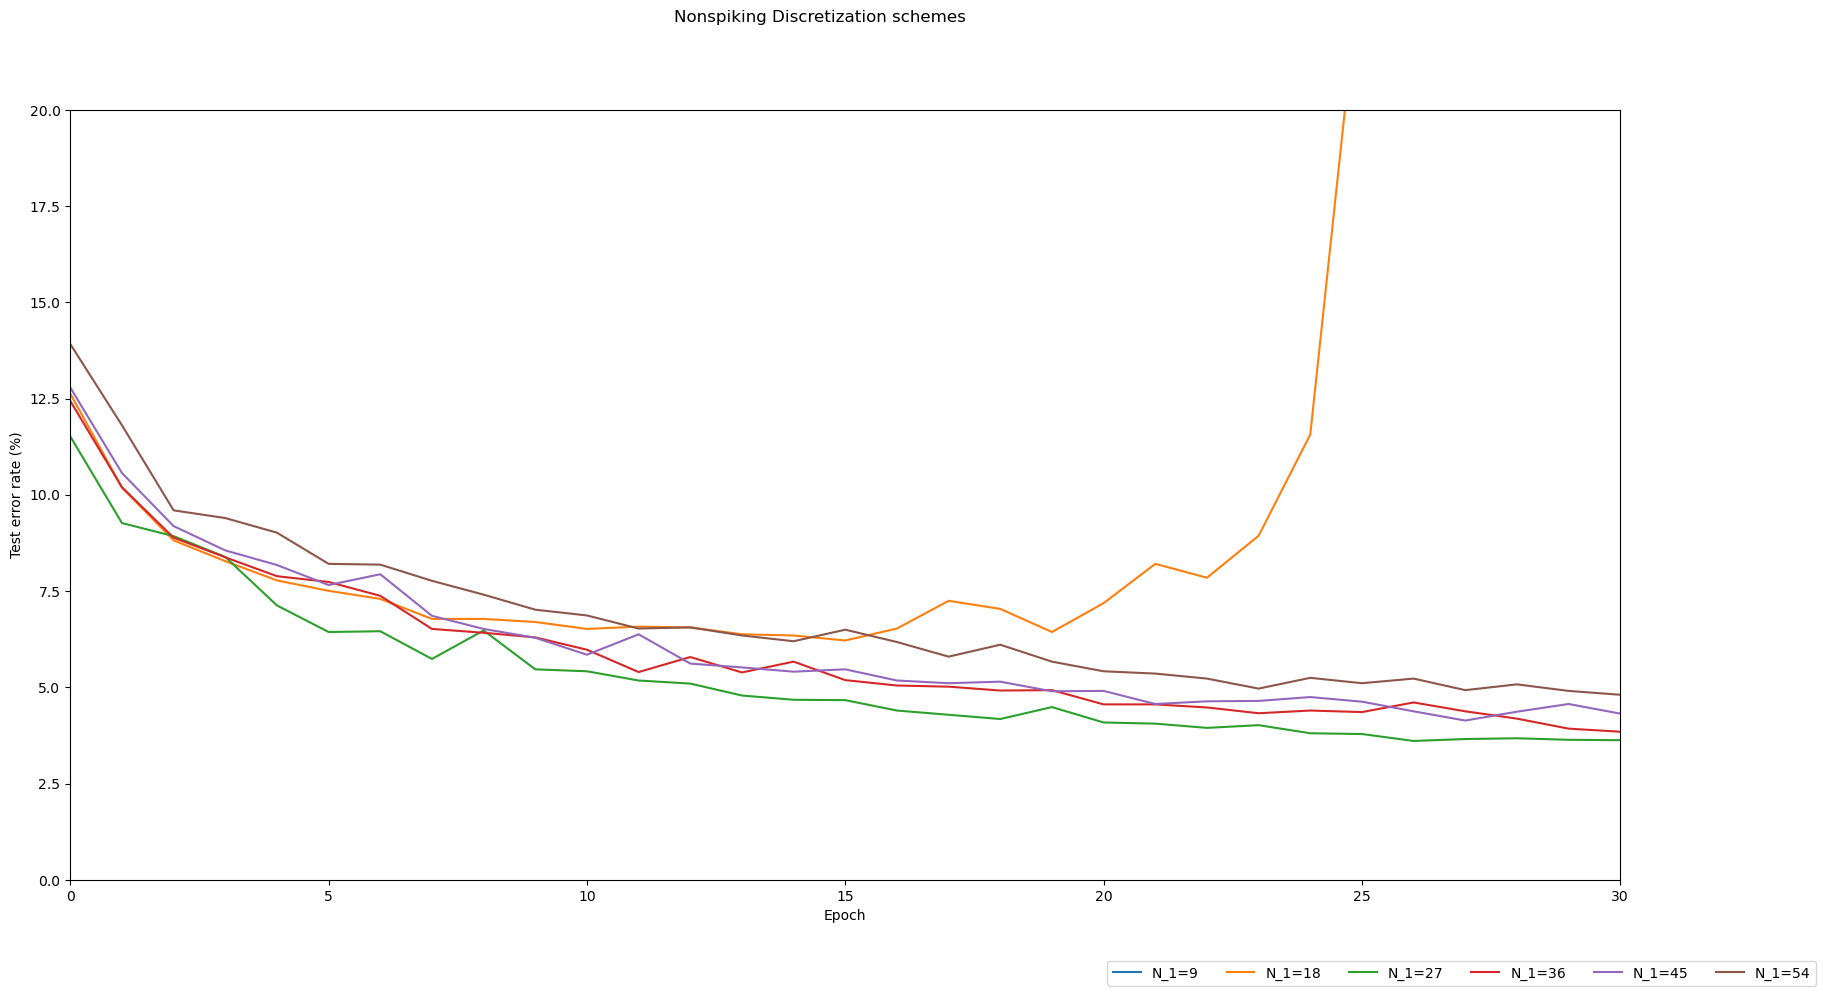
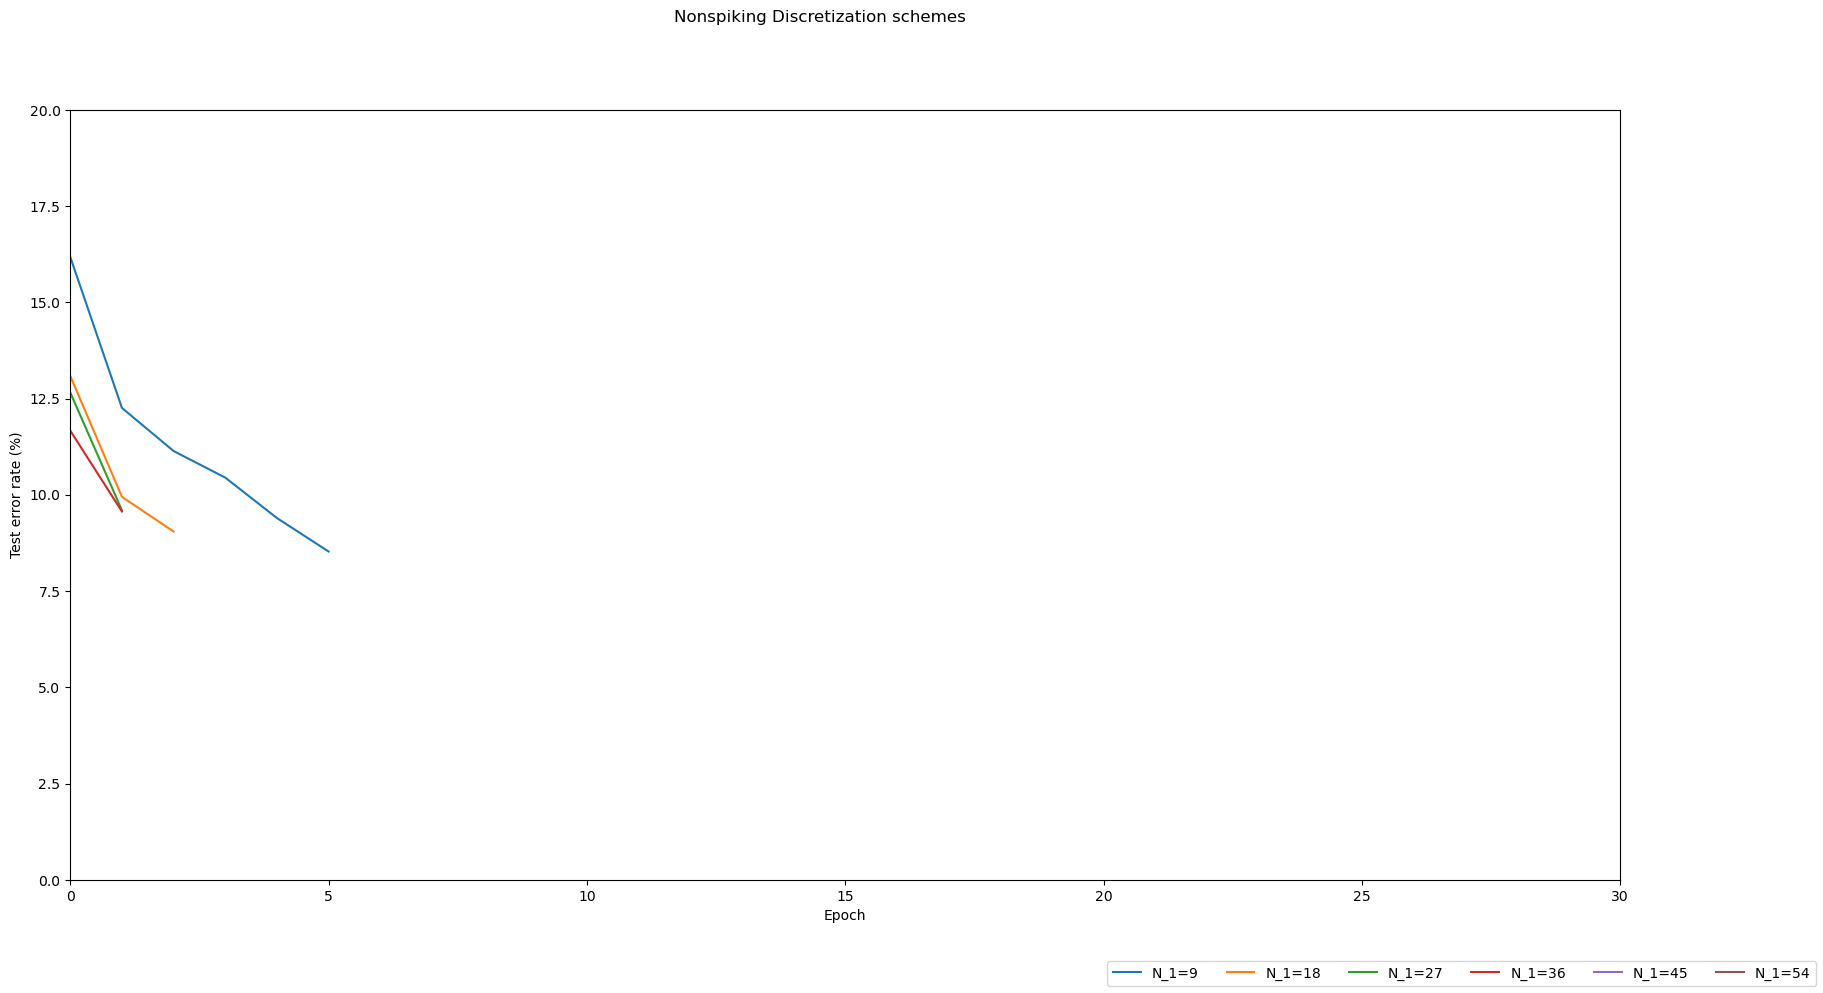
wip

Changed region(s): [[0.1229, 0.5307, 0.8908, 0.7492], [0.0307, 0.3434, 0.1536, 0.5619], [0.6144, 0.5619, 0.6758, 0.5932]]

diff --git a/graphUtil.py b/graphUtil.py
@@ -18,11 +18,19 @@ parser.add_argument(
 
 args = parser.parse_args()
 
-def csv2array(directory,skiplines=2):
+def csv2array(directory,skiplines=0):
     with open(directory+'/results.csv','r',newline='') as csv_file:
         csv_reader = csv.reader(csv_file)
         error = np.array(list(csv_reader)[skiplines:]).astype('float')
-        train_error,test_error = error[:,0],error[:,1]
+        # for row in csv_reader:
+        #     print(', '.join(row))
+        # print(list(csv_reader))
+        # print(error)
+        # print(directory)
+        try:
+            train_error,test_error = error[:,0],error[:,1]
+        except:
+            return [],[]
     return train_error, test_error
 
 
@@ -51,7 +59,7 @@ fig, ax = plt.subplots(figsize=(20,10))
 N1=[3*Kmax for Kmax in [3,6,9,12,15,18]]
 labels=[r'N_1='+str(N1[i]) for i in range(6)]
 disc_test_dir = ["cepalt_nonspiking_"+str(i) for i in range(6)]
-error = [csv2array(disc_test_dir[i]) for i in range(6)]
+error = [csv2array(disc_test_dir[i],skiplines=2) for i in range(6)]
 for i in range(6):
     ax.plot(error[i][1])
 ax.set_xlabel('Epoch')
@@ -68,7 +76,7 @@ fig, ax = plt.subplots(figsize=(20,10))
 N1=[3*Kmax for Kmax in [3,6,9,12,15,18]]
 labels=[r'N_1='+str(N1[i]) for i in range(6)]
 disc_test_dir = ["cepalt_spiking_"+str(i) for i in range(6)]
-error = [csv2array(disc_test_dir[i]) for i in range(6)]
+error = [csv2array(disc_test_dir[i],skiplines=2) for i in range(6)]
 for i in range(6):
     ax.plot(error[i][1])
 ax.set_xlabel('Epoch')
@@ -88,8 +96,8 @@ N2 = [3*i for i in range(1,7)]
 for i in range(6):
     spiking_dir = 'cepalt_spiking_'+str(i)
     nonspiking_dir = 'cepalt_nonspiking_'+str(i)
-    spiking_train_error, spiking_test_error = csv2array(spiking_dir)
-    nonspiking_train_error,nonspiking_test_error = csv2array(nonspiking_dir)
+    spiking_train_error, spiking_test_error = csv2array(spiking_dir,skiplines=2)
+    nonspiking_train_error,nonspiking_test_error = csv2array(nonspiking_dir,skiplines=2)
     ax[i//3,i%3].plot(spiking_test_error)
     ax[i//3,i%3].plot(nonspiking_test_error)
     ax[i//3,i%3].set_xlabel('Epoch')

diff --git a/main.py b/main.py
@@ -9,6 +9,20 @@ from netClasses import *
 from netFunctions import *
 from plotFunctions import *
 
+def set_seed(seed: int = 42) -> None:
+    np.random.seed(seed)
+    random.seed(seed)
+    torch.manual_seed(seed)
+    torch.cuda.manual_seed(seed)
+    # When running on the CuDNN backend, two further options must be set
+    torch.backends.cudnn.deterministic = True
+    torch.backends.cudnn.benchmark = False
+    # Set a fixed value for the hash seed
+    os.environ["PYTHONHASHSEED"] = str(seed)
+    print(f"Random seed set as {seed}")
+
+set_seed()
+
 
 #***************ICLR VERSION***************#
 
